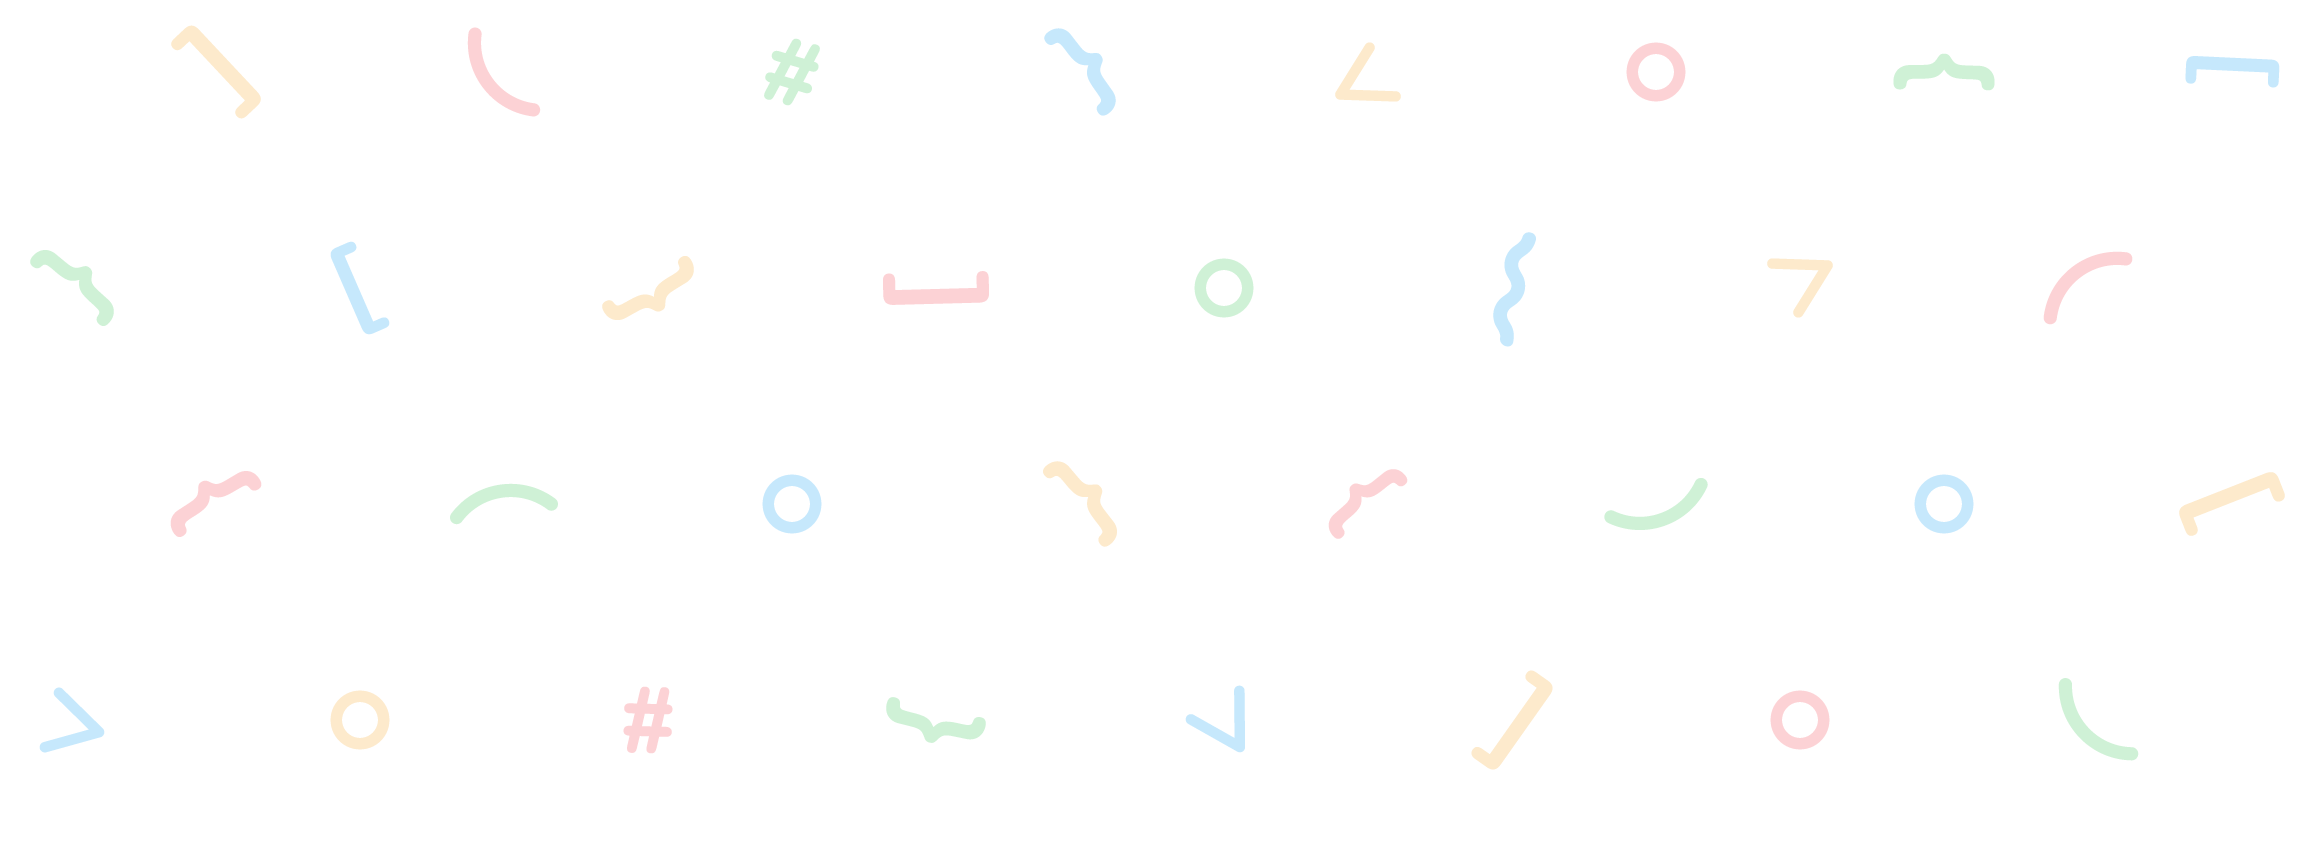
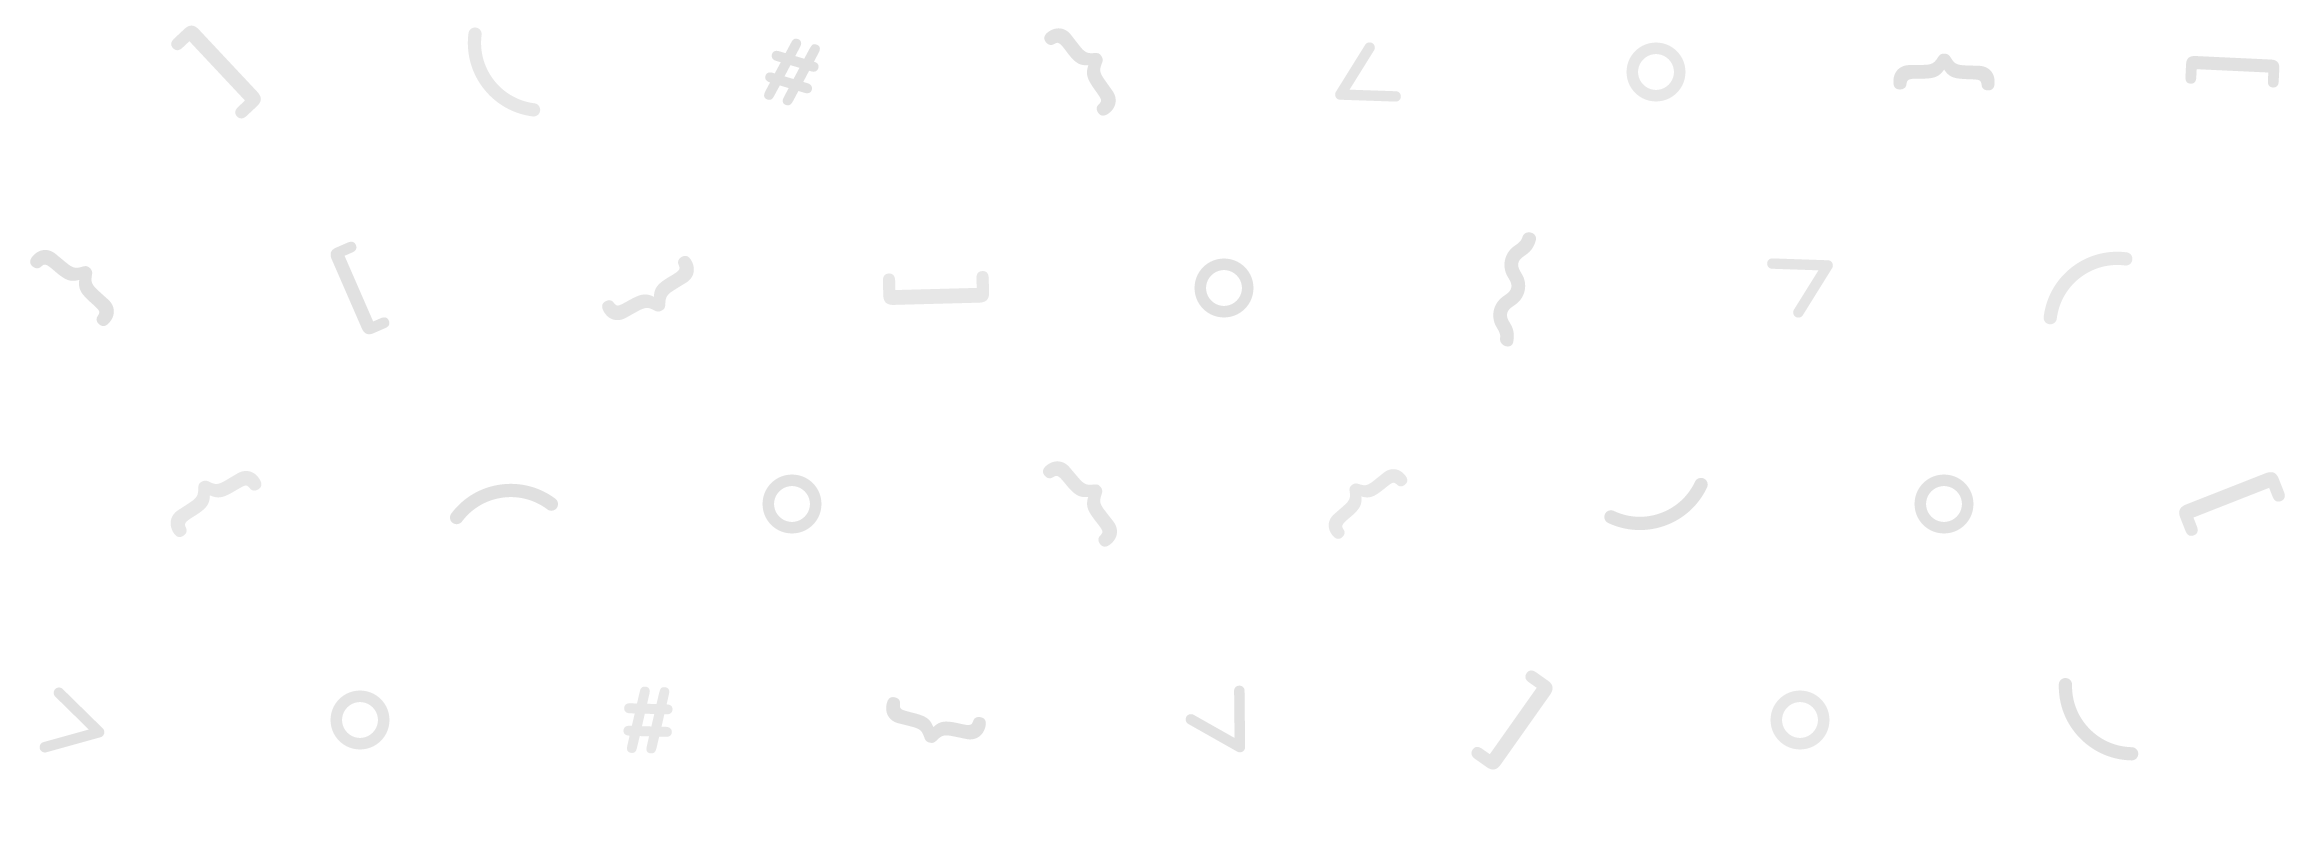
update hero (again)

diff --git a/src/styles/landing/hero.scss b/src/styles/landing/hero.scss
@@ -1,20 +1,23 @@
 .hero {
-  background: url(../images/confetti.png);
-  background-size: 1728px 648px;
-  border-bottom: 1px solid rgba($black,.1);
-  color: $purple-faded;
-  padding: 150px 0;
-
-  @include media(md) {
-    background-size: 1296px 486px;
-  }
-
-  @include media(xs) {
-    background-size: 864px 324px;
-  }
+  background: linear-gradient($purple-light, $purple);
+  color: $white;
+  padding: 230px 0 150px;
 
   @include media(xxs) {
-    padding-top: 60px;
+    padding-top: 140px;
+  }
+
+  &::after {
+    background: url(../images/confetti.png);
+    background-size: 864px 324px;
+    content: '';
+    display: block;
+    height: 100%;
+    opacity: .6;
+    pointer-events: none;
+    position: absolute;
+    top: 0;
+    width: 100%;
   }
 
   .h1 {
@@ -27,7 +30,6 @@
 
   .h1,
   .p {
-    background: radial-gradient(ellipse at center, $white 60%, rgba($white,0) 75%);
     display: table;
     margin: 0 auto;
   }
@@ -43,17 +45,27 @@
   }
 
   .link {
-    background: $purple-light;
-    border-radius: $input-border-radius;
+    background: rgba($white,.1);
+    border: 1px solid rgba($white,.3);
+    border-radius: $input-border-radius-lg;
     color: $white;
     display: table;
     margin: 30px auto 0;
     padding: 6px 12px;
     text-decoration: none;
+
+    &:hover {
+      border-color: rgba($white,.5);
+    }
+
+    &:active {
+      border-color: rgba($white,.75);
+    }
   }
 
   .img {
+    opacity: .9;
     position: relative;
-    top: 3px;
+    top: 2px;
   }
 }

diff --git a/src/styles/landing/landing.scss b/src/styles/landing/landing.scss
@@ -36,8 +36,11 @@
   }
 
   .header {
-    background: $purple-light;
-    border-bottom: 3px solid $purple;
+    background: linear-gradient($purple-light, rgba($purple-light,0));
+    left: 0;
+    position: absolute;
+    right: 0;
+    z-index: 10;
 
     @include media(xxs) {
       .btn {
